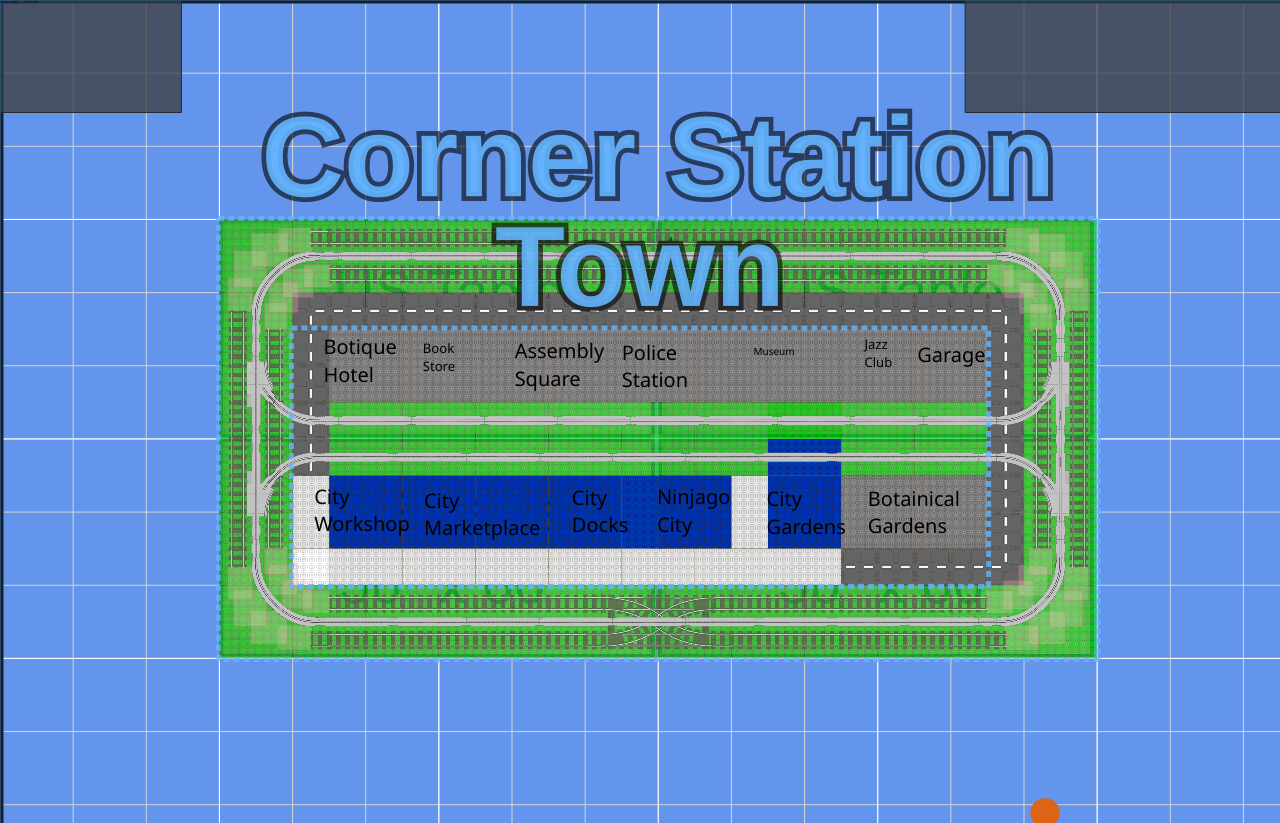
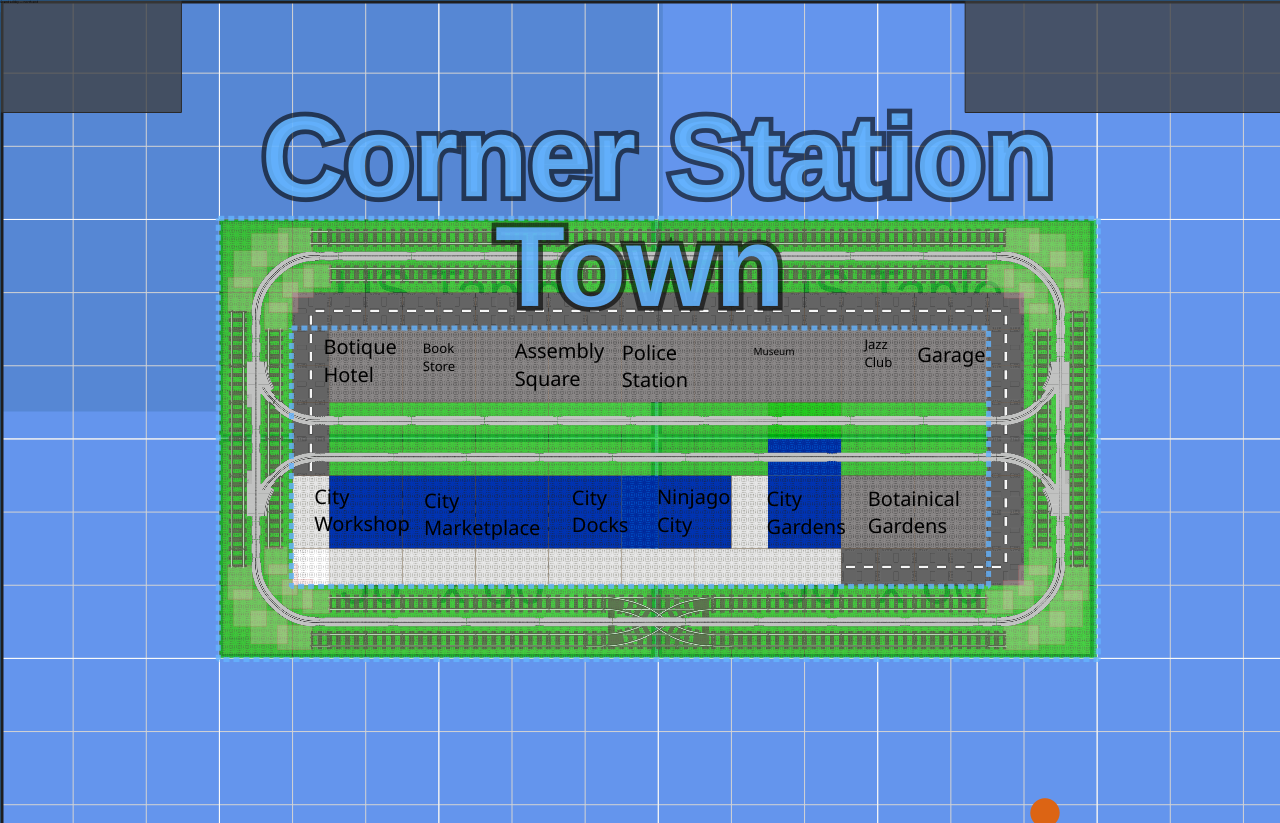
fix(ui): draw the background image in pictures, like the web
Export as Image, Share picture and Export all views left the layout's
background image out; the map and the web's pictures draw it under the
grid at its rect and opacity.

Changed region(s): [[0.0, 0.0, 0.5312, 0.5164]]

diff --git a/src/ui/SavedViews.cpp b/src/ui/SavedViews.cpp
@@ -9,6 +9,7 @@
 #include "../core/LayerText.h"
 #include "../core/Map.h"
 #include "../core/Module.h"
+#include "../core/Sidecar.h"
 #include "../rendering/SceneBuilder.h"
 
 #include <QCoreApplication>
@@ -270,10 +271,28 @@ QImage PictureRenderer::render(const PictureSpec& spec, QSize size) {
     SceneImageOptions o;
     o.background = d_->map.backgroundColor.color;
     const core::LayerGrid* grid = spec.grid ? drawnGrid(d_->map) : nullptr;
-    if (grid) {
+    const core::Sidecar& side = d_->map.sidecar;
+    const QImage background = side.backgroundImagePath.isEmpty() ? QImage() : QImage(side.backgroundImagePath);
+    if (grid || !background.isNull()) {
         const QRectF region = spec.region;
-        o.underlay = [grid, region, size](QPainter& p) {
-            paintGrid(p, *grid, region, size.width() / region.width(), size.height() / region.height());
+        o.underlay = [grid, region, size, &side, background](QPainter& p) {
+            const double sx = size.width() / region.width(), sy = size.height() / region.height();
+            // The background image under the grid, as the map and the web's
+            // pictures draw it: at its rect in studs, or its own size at the
+            // origin (1 image px = 1 scene px).
+            if (!background.isNull()) {
+                const QRectF r = side.backgroundImageRectStuds.isNull()
+                                     ? QRectF(0, 0, background.width() / double(kPxPerStud),
+                                              background.height() / double(kPxPerStud))
+                                     : side.backgroundImageRectStuds;
+                p.save();
+                p.setOpacity(std::clamp(side.backgroundImageOpacity, 0.0, 1.0));
+                p.drawImage(QRectF((r.x() - region.x()) * sx, (r.y() - region.y()) * sy, r.width() * sx,
+                                   r.height() * sy),
+                            background, QRectF(background.rect()));
+                p.restore();
+            }
+            if (grid) paintGrid(p, *grid, region, sx, sy);
         };
     }
     const QRectF px(spec.region.x() * kPxPerStud, spec.region.y() * kPxPerStud, spec.region.width() * kPxPerStud,
